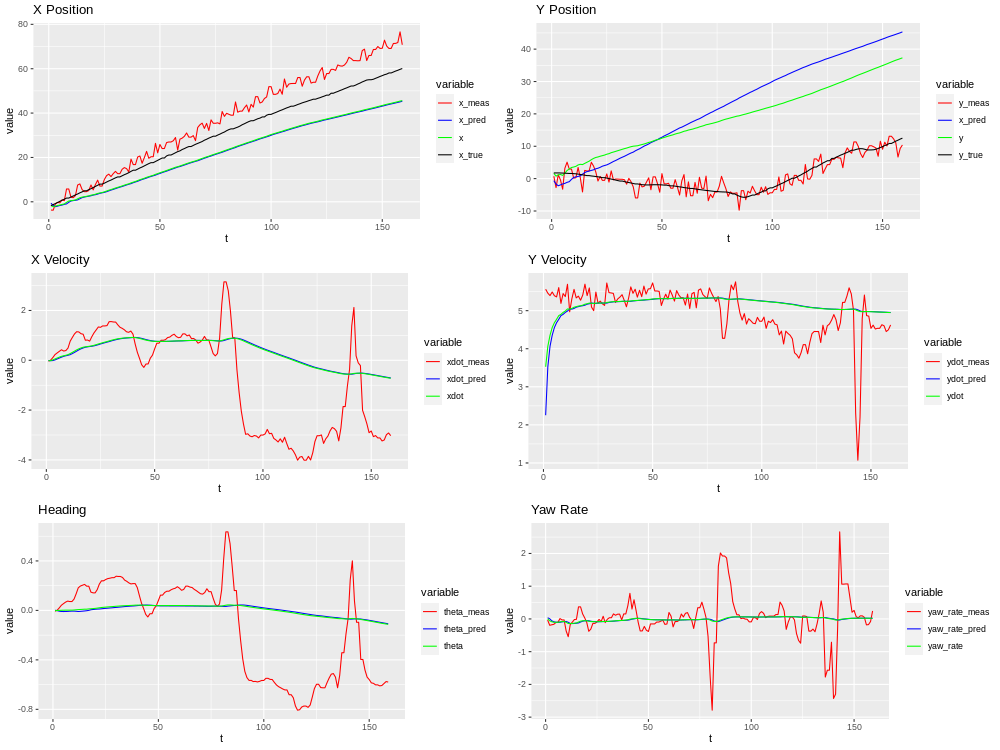
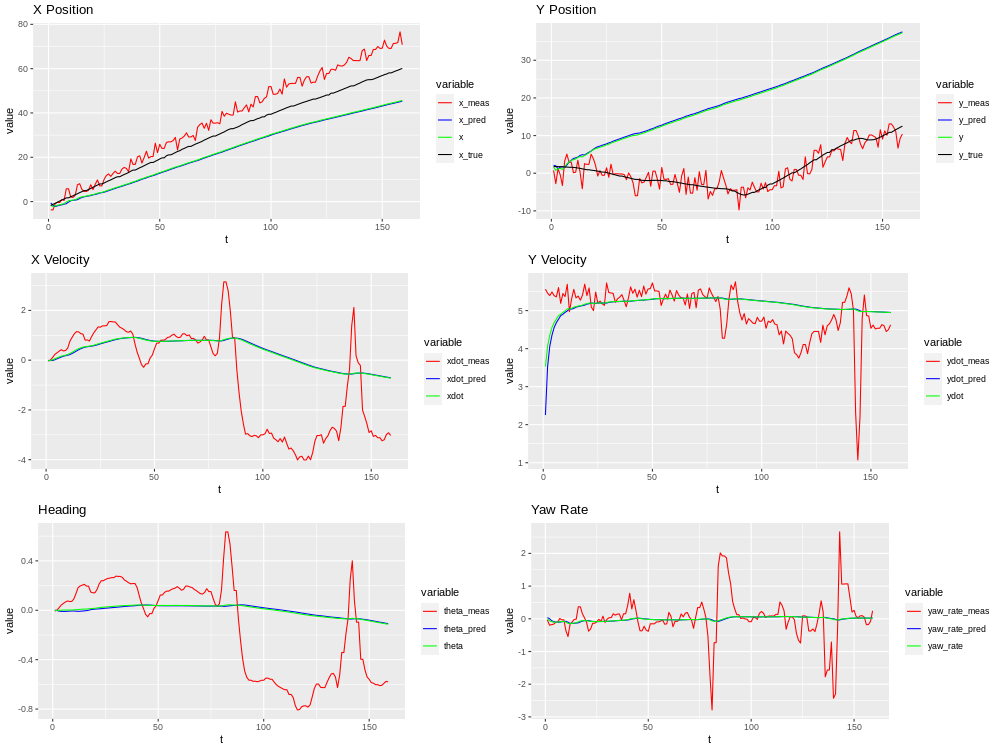
Can run Rscript to plot from command line. "Rscript --vanilla functions/plot_cl_6d.R kf_o0_n2_2020-11-15-23-19-13" Fix x_pred instead of y_pred in plot 2.

diff --git a/sim_ws/src/capstone/src/kf.py b/sim_ws/src/capstone/src/kf.py
@@ -248,8 +248,7 @@ def save_to_file():
     global data_for_file
     if filename is None:
         return
-    x = [(cur_gps.latitude - start_gps.latitude) * lat_to_m]
-    data_for_file.append(x + Measurements[1:] + Predictions + State + Truth)
+    data_for_file.append(Measurements + Predictions + State + Truth)
     np.savetxt(filepath + filename + ".csv", data_for_file, delimiter=",")
 
 def main():
